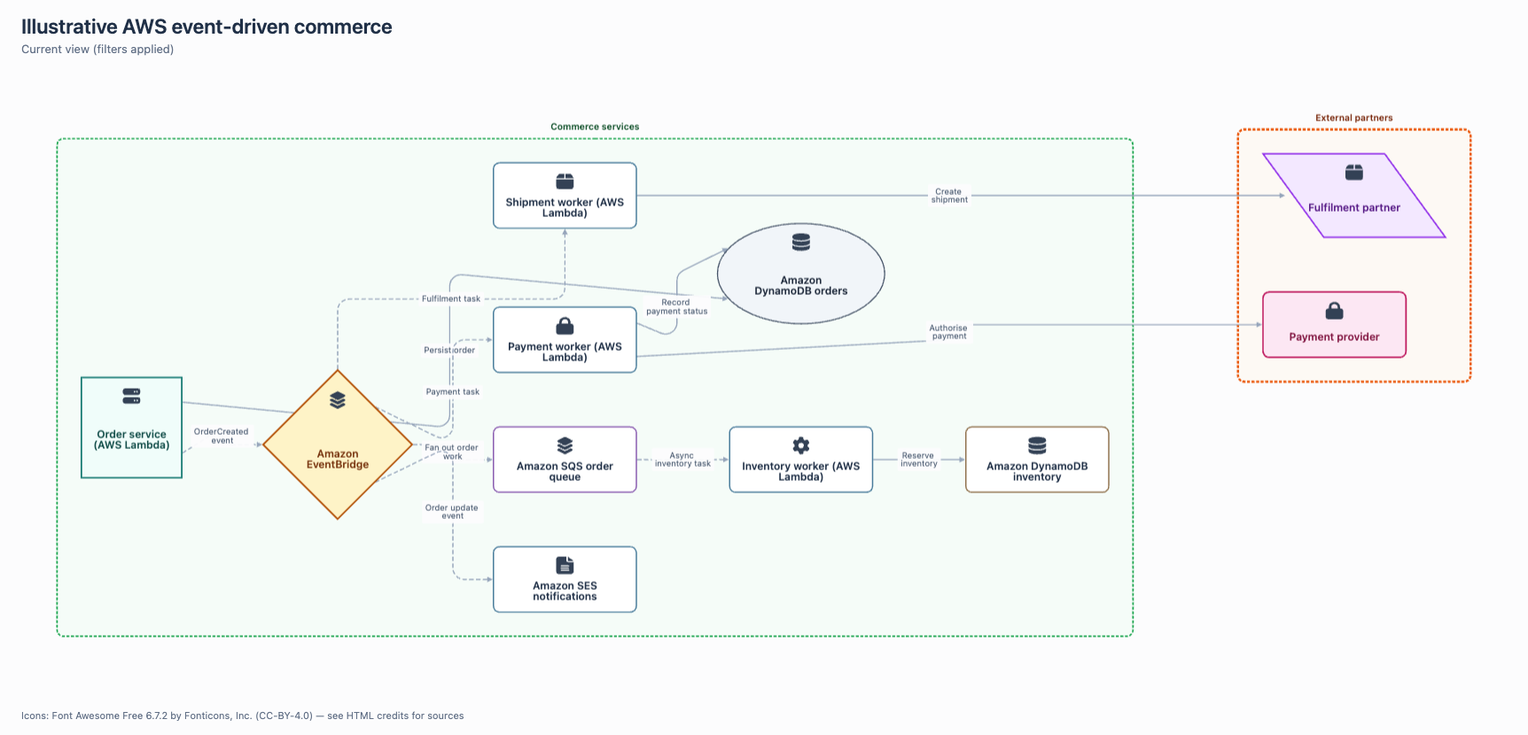
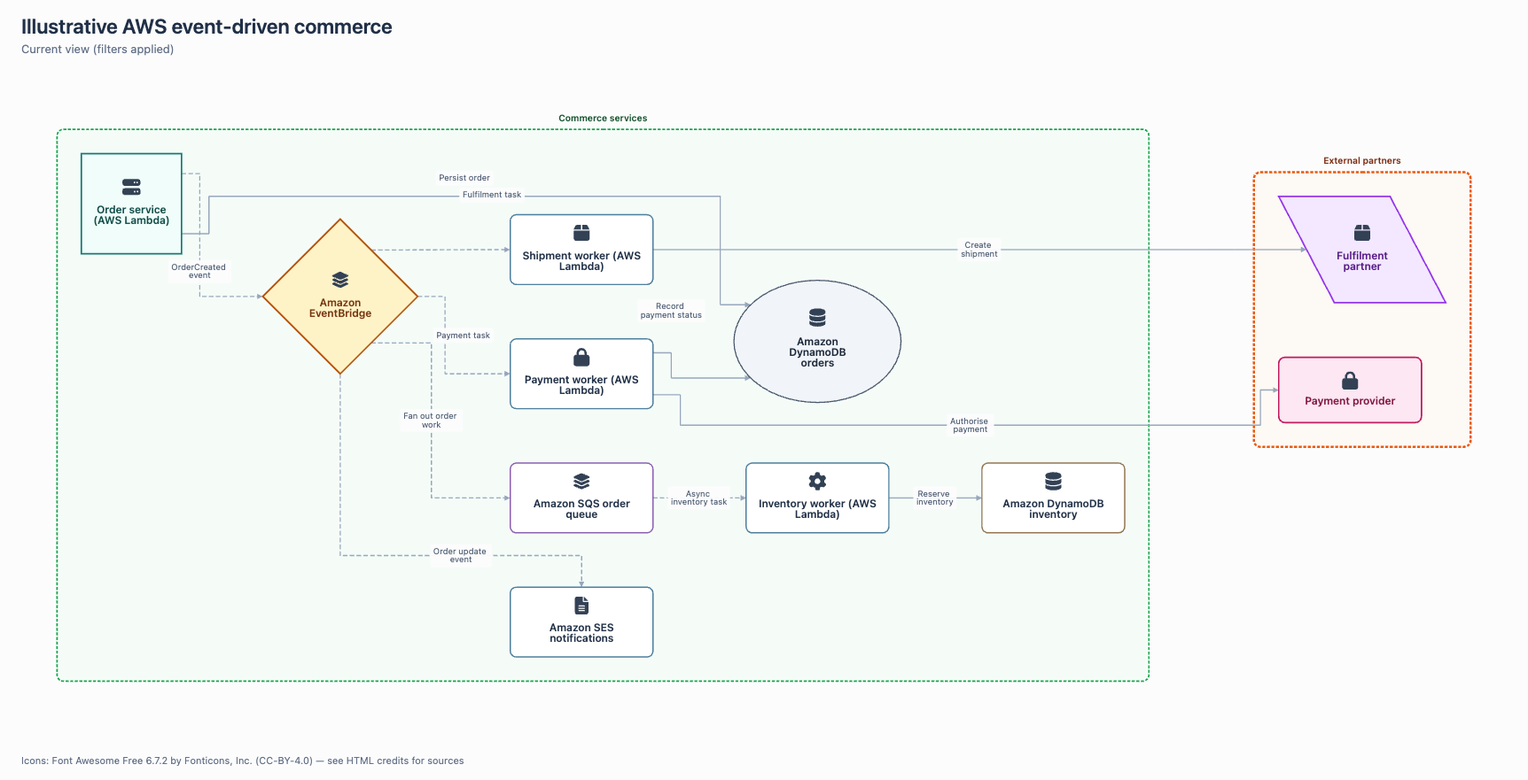
Finish collision-free diagram composition

diff --git a/assets/viewer.js b/assets/viewer.js
@@ -58,29 +58,28 @@ function lines(text,width){
 }
 const nodes=model.nodes.map(n=>{
   const group=n.kind==='group',appearance=n.appearance||{},shape={'oval':'ellipse','parallelogram':'rhomboid'}[appearance.shape]||appearance.shape||'round-rectangle';
-  const labelWidth=appearance.shape==='diamond'?88:['oval','parallelogram'].includes(appearance.shape)?132:appearance.shape==='square'?112:160,displayLabel=lines(n.label,labelWidth).join('\n');
-  const contentHeight=displayLabel.split('\n').length*19+(n.icon?46:26);
+  const labelWidth=appearance.shape==='diamond'?88:appearance.shape==='parallelogram'?104:appearance.shape==='oval'?120:appearance.shape==='square'?112:160,displayLabel=lines(n.label,labelWidth).join('\n');
+  const labelHeight=displayLabel.split('\n').length*19,contentHeight=labelHeight+(n.icon?30:0)+24;
   let width=group?180:188,height=Math.max(86,contentHeight);
   if(appearance.shape==='square')width=height=Math.max(132,height);
   if(appearance.shape==='diamond')width=height=Math.max(176,Math.ceil(labelWidth+contentHeight+24));
   if(appearance.shape==='oval'){width=Math.max(220,width);height=Math.max(132,Math.ceil(contentHeight*1.45));}
-  if(appearance.shape==='parallelogram'){width=Math.max(240,width);height=Math.max(110,Math.ceil(contentHeight*1.25));}
-  const groupLabelWidth=Math.min(300,measure.measureText(n.label).width);
-  return {data:{id:n.id,label:n.label,displayLabel,kind:n.kind||'element',...(n.parent?{parent:n.parent}:{}),width,height,labelWidth,shape,icon:icons[n.icon]||null,fill:appearance.fill||'#ffffff',stroke:appearance.stroke||colors.get(n.kind||'element')||'#7c8899',strokeWidth:appearance.strokeWidth||1.7,textColor:appearance.textColor||'#203047',groupLabel:appearance.groupLabel||'top',groupPadding:appearance.groupLabel==='inside'?46:30,groupTextX:appearance.groupLabel==='inside'?(n.icon?42:14)+groupLabelWidth:0}};
+  if(appearance.shape==='parallelogram'){width=Math.max(220,width);height=Math.max(140,Math.ceil(contentHeight*1.4));}
+  const groupLabelWidth=Math.min(300,measure.measureText(n.label).width),iconTop=n.icon?Math.max(10,(height-labelHeight-30)/2):0;
+  return {data:{id:n.id,label:n.label,displayLabel,kind:n.kind||'element',...(n.parent?{parent:n.parent}:{}),width,height,labelWidth,labelHeight,shape,icon:icons[n.icon]||null,iconTop,fill:appearance.fill||'#ffffff',stroke:appearance.stroke||colors.get(n.kind||'element')||'#7c8899',strokeWidth:appearance.strokeWidth||1.7,textColor:appearance.textColor||'#203047',groupLabel:appearance.groupLabel||'top',groupPadding:appearance.groupLabel==='inside'?46:30,groupTextX:appearance.groupLabel==='inside'?(n.icon?42:14)+groupLabelWidth:0}};
 });
-const edges=model.edges.map(e=>({data:{id:e.id,source:e.source,target:e.target,label:e.label||'',kind:e.kind||'flow',directed:e.directed!==false,routeTurn:'50%',routeLabelX:0,routeLabelY:0,sourceEndpoint:'outside-to-node',targetEndpoint:'outside-to-node'}}));
+const edges=model.edges.map(e=>({data:{id:e.id,source:e.source,target:e.target,label:e.label||'',kind:e.kind||'flow',directed:e.directed!==false,curveStyle:'straight',segmentWeights:'0.5',segmentDistances:'0',routeLabelX:0,routeLabelY:0,sourceEndpoint:'outside-to-node',targetEndpoint:'outside-to-node'}}));
 const cy=api.cy=cytoscape({
   container:$('cy'),elements:{nodes,edges},layout:{name:'preset'},
   minZoom:0.03,maxZoom:3.5,pixelRatio:Math.min(window.devicePixelRatio||1,2),
   autoungrabify:true,boxSelectionEnabled:false,
   style:[
     {selector:'node',style:{'shape':'data(shape)','width':'data(width)','height':'data(height)','background-color':'data(fill)','border-width':'data(strokeWidth)','border-color':'data(stroke)','label':'data(displayLabel)','font-family':'system-ui','font-size':14,'font-weight':600,'color':'data(textColor)','text-valign':'center','text-halign':'center','text-wrap':'wrap','text-max-width':'data(labelWidth)','text-justification':'center','text-margin-y':0,'padding':0,'overlay-opacity':0}},
-    {selector:'node[icon]',style:{'background-image':n=>n.data('icon')||'none','background-fit':'none','background-width':23,'background-height':23,'background-position-x':'50%','background-position-y':'13px','text-margin-y':16}},
-    {selector:'node[shape="diamond"][icon]',style:{'background-position-y':'28px','text-margin-y':20}},
+    {selector:'node[icon]',style:{'background-image':n=>n.data('icon')||'none','background-fit':'none','background-width':24,'background-height':24,'background-position-x':'50%','background-position-y':'data(iconTop)','text-margin-y':15}},
     {selector:'node:parent',style:{'shape':'round-rectangle','background-color':'data(fill)','background-opacity':0.22,'border-color':'data(stroke)','border-width':'data(strokeWidth)','border-style':'dashed','padding':'data(groupPadding)','label':'data(label)','font-size':12,'font-weight':600,'color':'data(textColor)','text-valign':'top','text-halign':'center','text-margin-x':0,'text-margin-y':-9,'compound-sizing-wrt-labels':'include','background-image':'none','text-wrap':'wrap','text-max-width':300}},
     {selector:'node:parent[groupLabel="inside"]',style:{'text-halign':'left','text-valign':'top','text-margin-x':'data(groupTextX)','text-margin-y':15}},
     {selector:'node:parent[groupLabel="inside"][icon]',style:{'background-image':n=>n.data('icon')||'none','background-fit':'none','background-width':20,'background-height':20,'background-position-x':'16px','background-position-y':'14px'}},
-    {selector:'edge',style:{'curve-style':'round-taxi','taxi-direction':'auto','taxi-turn':'data(routeTurn)','taxi-turn-min-distance':32,'source-endpoint':'data(sourceEndpoint)','target-endpoint':'data(targetEndpoint)','line-color':'#96a5bb','target-arrow-color':'#96a5bb','target-arrow-shape':e=>e.data('directed')?'triangle':'none','width':1.6,'arrow-scale':0.85,'label':'data(label)','font-family':'system-ui','font-size':11,'color':'#526277','text-background-color':'#fcfcfd','text-background-opacity':0.95,'text-background-padding':4,'text-background-shape':'roundrectangle','text-wrap':'wrap','text-max-width':Math.max(44,Math.min(120,(model.layout?.layerSpacing||120)-20)),'text-rotation':'none','text-margin-x':'data(routeLabelX)','text-margin-y':'data(routeLabelY)','loop-direction':'-45deg','loop-sweep':'55deg','overlay-opacity':0}},
+    {selector:'edge',style:{'curve-style':'data(curveStyle)','edge-distances':'node-position','segment-weights':'data(segmentWeights)','segment-distances':'data(segmentDistances)','source-endpoint':'data(sourceEndpoint)','target-endpoint':'data(targetEndpoint)','line-color':'#96a5bb','target-arrow-color':'#96a5bb','target-arrow-shape':e=>e.data('directed')?'triangle':'none','width':1.6,'arrow-scale':0.85,'label':'data(label)','font-family':'system-ui','font-size':11,'color':'#526277','text-background-color':'#fcfcfd','text-background-opacity':0.95,'text-background-padding':4,'text-background-shape':'roundrectangle','text-wrap':'wrap','text-max-width':Math.max(44,Math.min(120,(model.layout?.layerSpacing||120)-20)),'text-rotation':'none','text-margin-x':'data(routeLabelX)','text-margin-y':'data(routeLabelY)','overlay-opacity':0}},
     {selector:'edge:loop',style:{'curve-style':'bezier','control-point-step-size':150,'loop-direction':'0deg','loop-sweep':'65deg'}},
     {selector:'edge[kind="event"], edge[kind="async"]',style:{'line-style':'dashed'}},
     {selector:'.dim',style:{'opacity':0.17}},
@@ -149,54 +148,58 @@ function inspect(id,mode){
   }
 }
 function fit(){if(cy.nodes(':visible').length)cy.fit(cy.elements(':visible'),48);}
-async function route(elements){
-  const visible=elements.edges(':visible'),ports=new Map(),records=[];
-  const side=(a,b)=>{const dx=b.x-a.x,dy=b.y-a.y;if(Math.abs(dx)>=Math.abs(dy))return dx>=0?'right':'left';return dy>=0?'bottom':'top';};
-  const endpoint=(node,s,p)=>{
-    const offset=p-50,shape=node.data('shape');let x=0,y=0;
-    if(['left','right'].includes(s)){
-      y=offset;if(shape==='rhomboid')x=(s==='right'?37.5:-37.5)+y/4;else{const edge=shape==='ellipse'?50*Math.sqrt(1-(y/50)**2):shape==='diamond'?50-Math.abs(y):50;x=s==='right'?edge:-edge;}
-    }else{
-      x=offset;const edge=shape==='ellipse'?50*Math.sqrt(1-(x/50)**2):shape==='diamond'?50-Math.abs(x):50;y=s==='bottom'?edge:-edge;
-    }
-    return `${x}% ${y}%`;
-  };
-  visible.forEach(edge=>{
-    if(edge.source().id()===edge.target().id()){edge.data({sourceEndpoint:'outside-to-node',targetEndpoint:'outside-to-node',routeTurn:'50%',routeLabelX:0,routeLabelY:-28});return;}
-    const source=edge.source().position(),target=edge.target().position(),sourceSide=side(source,target),targetSide=side(target,source),record={edge,source,target,sourceSide,targetSide};records.push(record);
-    for(const [node,which,s,peer] of [[edge.source(),'source',sourceSide,target],[edge.target(),'target',targetSide,source]]){const key=`${node.id()}:${s}`;if(!ports.has(key))ports.set(key,[]);ports.get(key).push({record,which,peer});}
-  });
-  for(const entries of ports.values()){
-    const vertical=['left','right'].includes(entries[0].record[entries[0].which+'Side']);entries.sort((a,b)=>(vertical?a.peer.y-b.peer.y:a.peer.x-b.peer.x)||a.record.edge.id().localeCompare(b.record.edge.id()));
-    entries.forEach((entry,i)=>{entry.record[entry.which+'Port']=entries.length===1?50:25+50*i/(entries.length-1);});
-  }
-  const pairs=new Map();for(const record of records){const key=[record.edge.source().id(),record.edge.target().id()].sort().join('\u0000');if(!pairs.has(key))pairs.set(key,[]);pairs.get(key).push(record);}
-  for(const group of pairs.values())group.sort((a,b)=>a.edge.id().localeCompare(b.edge.id())).forEach((record,i)=>{record.lane=i-(group.length-1)/2;});
-  cy.batch(()=>records.forEach(r=>{const horizontal=Math.abs(r.target.x-r.source.x)>=Math.abs(r.target.y-r.source.y);r.baseLabelX=horizontal?0:r.lane*84;r.baseLabelY=horizontal?r.lane*56:0;r.edge.data({sourceEndpoint:endpoint(r.edge.source(),r.sourceSide,r.sourcePort),targetEndpoint:endpoint(r.edge.target(),r.targetSide,r.targetPort),routeTurn:'50%',routeLabelX:r.baseLabelX,routeLabelY:r.baseLabelY});}));
-  cy.style().update();
-  await new Promise(resolve=>requestAnimationFrame(resolve));
-  const occupied=cy.nodes(':visible').filter(n=>!n.isParent()).map(n=>n.boundingBox({includeLabels:true,includeOverlays:false}));
-  for(const group of cy.nodes(':visible').filter(n=>n.isParent())){group.boundingBox({includeLabels:true,includeOverlays:false});occupied.push(group._private.labelBounds.main);}
-  const placed=[],choices=[];
-  const overlap=(a,b)=>Math.max(0,Math.min(a.x2,b.x2)-Math.max(a.x1,b.x1))*Math.max(0,Math.min(a.y2,b.y2)-Math.max(a.y1,b.y1));
-  for(const r of records.sort((a,b)=>a.edge.id().localeCompare(b.edge.id()))){
-    if(!r.edge.data('label'))continue;const horizontal=Math.abs(r.target.x-r.source.x)>=Math.abs(r.target.y-r.source.y);
-    const candidates=[],primary=[0,-18,18,-36,36,-54,54,-72,72,-90,90,-108,108],secondary=[0,-24,24,-48,48,-72,72];for(const p of primary)for(const s of secondary)candidates.push(horizontal?[s,p]:[p,s]);
-    const s=r.edge._private.rscratch,z=r.edge._private.rstyle;let best=null;for(const [x,y] of candidates){const box={x1:s.labelX+r.baseLabelX+x-z.labelWidth/2,y1:s.labelY+r.baseLabelY+y-z.labelHeight/2,x2:s.labelX+r.baseLabelX+x+z.labelWidth/2,y2:s.labelY+r.baseLabelY+y+z.labelHeight/2},collisions=[...occupied,...placed].reduce((sum,b)=>sum+overlap(box,b),0),score=collisions*1000+Math.abs(x)+Math.abs(y);if(!best||score<best.score)best={x:r.baseLabelX+x,y:r.baseLabelY+y,box,score};if(!collisions)break;}
-    choices.push([r.edge,best]);placed.push(best.box);
-  }
-  cy.batch(()=>choices.forEach(([edge,best])=>edge.data({routeLabelX:best.x,routeLabelY:best.y})));
-  cy.style().update();
+function portPoint(node,side,t){
+  const w=node.data('width'),h=node.data('height'),shape=node.data('shape'),horizontal=side==='NORTH'||side==='SOUTH';let x=horizontal?t:0,y=horizontal?0:t;
+  if(shape==='ellipse'){if(horizontal)y=(side==='SOUTH'?1:-1)*Math.sqrt(1-x*x);else x=(side==='EAST'?1:-1)*Math.sqrt(1-y*y);}
+  else if(shape==='diamond'){if(horizontal)y=(side==='SOUTH'?1:-1)*(1-Math.abs(x));else x=(side==='EAST'?1:-1)*(1-Math.abs(y));}
+  else if(shape==='rhomboid'){if(horizontal){x=(side==='SOUTH'?1/3:-1/3)+2*t/3;y=side==='SOUTH'?1:-1;}else x=(side==='EAST'?2/3:-2/3)+y/3;}
+  else if(horizontal)y=side==='SOUTH'?1:-1;else x=side==='EAST'?1:-1;
+  return {x:w*(x+1)/2,y:h*(y+1)/2};
+}
+function segmentValues(points,source,target){
+  const dx=target.x-source.x,dy=target.y-source.y,length=Math.hypot(dx,dy),square=length*length;
+  if(!length||!points.length)return {weights:'0.5',distances:'0'};
+  const weights=[],distances=[];
+  for(const p of points){weights.push(((p.x-source.x)*dx+(p.y-source.y)*dy)/square);distances.push(((p.x-source.x)*-dy+(p.y-source.y)*dx)/length);}
+  return {weights:weights.join(' '),distances:distances.join(' ')};
+}
+function stubLength(node,side,point,assigned){
+  const clearance={EAST:node.data('width')-point.x,WEST:point.x,SOUTH:node.data('height')-point.y,NORTH:point.y}[side]+18;
+  return Math.max(assigned,clearance);
+}
+function crossesNode(a,b,node){
+  const c=node.position(),w=node.data('width')/2,h=node.data('height')/2,ax=(a.x-c.x)/w,ay=(a.y-c.y)/h,bx=(b.x-c.x)/w,by=(b.y-c.y)/h,dx=bx-ax,dy=by-ay,t=Math.max(0,Math.min(1,-(ax*dx+ay*dy)/(dx*dx+dy*dy||1))),x=ax+t*dx,y=ay+t*dy,shape=node.data('shape'),m=.98;
+  if(shape==='ellipse')return x*x+y*y<m*m;
+  if(shape==='diamond')return Math.abs(x)+Math.abs(y)<m;
+  if(shape==='rhomboid'){if(Math.abs(ay-by)<.001){if(Math.abs(ay)>=m)return false;return Math.max(Math.min(ax,bx),(-2*m+ay)/3)<Math.min(Math.max(ax,bx),(2*m+ay)/3);}const low=Math.max(-m,3*ax-2*m),high=Math.min(m,3*ax+2*m);return Math.max(Math.min(ay,by),low)<Math.min(Math.max(ay,by),high);}
+  return Math.abs(x)<m&&Math.abs(y)<m;
 }
 async function arrange(elements){
   const spacing=model.layout?.spacing||65,layerSpacing=model.layout?.layerSpacing||120;
   const elk={'elk.algorithm':'layered','elk.direction':$('direction').value,'elk.hierarchyHandling':'INCLUDE_CHILDREN','elk.edgeRouting':'ORTHOGONAL','elk.spacing.nodeNode':spacing,'elk.spacing.edgeNode':Math.max(32,spacing/2),'elk.spacing.edgeEdge':24,'elk.layered.spacing.nodeNodeBetweenLayers':layerSpacing,'elk.layered.spacing.edgeNodeBetweenLayers':Math.max(36,layerSpacing/3),'elk.layered.spacing.edgeEdgeBetweenLayers':24,'elk.padding':'[top=40,left=40,bottom=40,right=40]','elk.randomSeed':17};
-  await new Promise((resolve,reject)=>{
-    const timer=setTimeout(()=>reject(new Error('Layout exceeded 15 seconds. Split the diagram or use an explicitly configured worker integration.')),15000);
-    const success=()=>{clearTimeout(timer);pendingFailure=null;resolve();};
-    pendingFailure=e=>{clearTimeout(timer);reject(e);};
-    elements.layout({name:'elk',fit:false,animate:false,nodeDimensionsIncludeLabels:false,nodeLayoutOptions:node=>node.isParent()?{...elk,'elk.padding':node.data('groupLabel')==='inside'?'[top=76,left=42,bottom=42,right=42]':'[top=50,left=36,bottom=36,right=36]'}:{},elk,stop:success}).run();
-  });
+  await new Promise((resolve,reject)=>{const timer=setTimeout(()=>reject(new Error('Layout exceeded 15 seconds. Split the diagram or use a worker-based integration.')),15000),success=()=>{clearTimeout(timer);pendingFailure=null;resolve();};pendingFailure=e=>{clearTimeout(timer);reject(e);};elements.layout({name:'elk',fit:false,animate:false,nodeDimensionsIncludeLabels:false,nodeLayoutOptions:node=>node.isParent()?{...elk,'elk.padding':node.data('groupLabel')==='inside'?'[top=76,left=42,bottom=42,right=42]':'[top=50,left=36,bottom=36,right=36]'}:{},elk,stop:success}).run();});
+}
+async function route(elements){
+  const visible=elements.edges(':visible'),records=[],ports=new Map(),occupied=[];
+  const side=(a,b)=>{const dx=b.x-a.x,dy=b.y-a.y;if(Math.abs(dx)>=Math.abs(dy))return dx>=0?'EAST':'WEST';return dy>=0?'SOUTH':'NORTH';},opposite={EAST:'WEST',WEST:'EAST',NORTH:'SOUTH',SOUTH:'NORTH'},vector={EAST:[1,0],WEST:[-1,0],NORTH:[0,-1],SOUTH:[0,1]};
+  visible.forEach(edge=>{if(edge.isLoop()){edge.data({curveStyle:'bezier',routeLabelX:0,routeLabelY:-28});return;}const source=edge.source().position(),target=edge.target().position(),sourceSide=side(source,target),targetSide=opposite[sourceSide],record={edge,source,target,sourceSide,targetSide};records.push(record);for(const [node,which,s,peer] of [[edge.source(),'source',sourceSide,target],[edge.target(),'target',targetSide,source]]){const key=`${node.id()}:${s}`;if(!ports.has(key))ports.set(key,[]);ports.get(key).push({record,which,peer});}});
+  for(const entries of ports.values()){const vertical=['EAST','WEST'].includes(entries[0].record[`${entries[0].which}Side`]);entries.sort((a,b)=>(vertical?a.peer.y-b.peer.y:a.peer.x-b.peer.x)||a.record.edge.id().localeCompare(b.record.edge.id()));entries.forEach((entry,i)=>{entry.record[`${entry.which}Port`]=entries.length===1?0:-.6+1.2*i/(entries.length-1);entry.record[`${entry.which}Stub`]=24+i*12;});}
+  const obstacles=elements.nodes(':visible').filter(n=>!n.isParent()).map(n=>{const p=n.position(),pad=12;return{id:n.id(),x1:p.x-n.data('width')/2-pad,y1:p.y-n.data('height')/2-pad,x2:p.x+n.data('width')/2+pad,y2:p.y+n.data('height')/2+pad};}),xs=obstacles.flatMap(o=>[o.x1-18,o.x2+18]),ys=obstacles.flatMap(o=>[o.y1-18,o.y2+18]);
+  const segments=path=>path.slice(1).map((p,i)=>[path[i],p]),intersects=(a,b,o)=>Math.abs(a.y-b.y)<.5?a.y>o.y1&&a.y<o.y2&&Math.max(a.x,b.x)>o.x1&&Math.min(a.x,b.x)<o.x2:a.x>o.x1&&a.x<o.x2&&Math.max(a.y,b.y)>o.y1&&Math.min(a.y,b.y)<o.y2;
+  const overlap=(a,b,c,d)=>{const ah=Math.abs(a.y-b.y)<.5,ch=Math.abs(c.y-d.y)<.5;if(ah!==ch)return 0;if(ah&&Math.abs(a.y-c.y)<1)return Math.max(0,Math.min(Math.max(a.x,b.x),Math.max(c.x,d.x))-Math.max(Math.min(a.x,b.x),Math.min(c.x,d.x)));if(!ah&&Math.abs(a.x-c.x)<1)return Math.max(0,Math.min(Math.max(a.y,b.y),Math.max(c.y,d.y))-Math.max(Math.min(a.y,b.y),Math.min(c.y,d.y)));return 0;};
+  const crossing=(a,b,c,d)=>{const ah=Math.abs(a.y-b.y)<.5,ch=Math.abs(c.y-d.y)<.5;if(ah===ch)return false;const h=ah?[a,b]:[c,d],v=ah?[c,d]:[a,b];return v[0].x>Math.min(h[0].x,h[1].x)&&v[0].x<Math.max(h[0].x,h[1].x)&&h[0].y>Math.min(v[0].y,v[1].y)&&h[0].y<Math.max(v[0].y,v[1].y);};
+  const compact=path=>{const out=[];for(const p of path){const n=out.length,vertical=n>1&&Math.abs(out[n-2].x-out[n-1].x)<.5&&Math.abs(out[n-1].x-p.x)<.5&&(out[n-1].y-out[n-2].y)*(p.y-out[n-1].y)>=0,horizontal=n>1&&Math.abs(out[n-2].y-out[n-1].y)<.5&&Math.abs(out[n-1].y-p.y)<.5&&(out[n-1].x-out[n-2].x)*(p.x-out[n-1].x)>=0;if(vertical||horizontal)out[n-1]=p;else if(!n||Math.abs(p.x-out[n-1].x)>.5||Math.abs(p.y-out[n-1].y)>.5)out.push(p);}return out;};
+  for(const [lane,r] of records.sort((a,b)=>(Math.abs(a.target.x-a.source.x)+Math.abs(a.target.y-a.source.y))-(Math.abs(b.target.x-b.source.x)+Math.abs(b.target.y-b.source.y))||a.edge.id().localeCompare(b.edge.id())).entries()){
+    const sourcePoint=portPoint(r.edge.source(),r.sourceSide,r.sourcePort),targetPoint=portPoint(r.edge.target(),r.targetSide,r.targetPort),start={x:r.source.x+sourcePoint.x-r.edge.source().data('width')/2,y:r.source.y+sourcePoint.y-r.edge.source().data('height')/2},end={x:r.target.x+targetPoint.x-r.edge.target().data('width')/2,y:r.target.y+targetPoint.y-r.edge.target().data('height')/2},sv=vector[r.sourceSide],tv=vector[r.targetSide],sourceStub=stubLength(r.edge.source(),r.sourceSide,sourcePoint,r.sourceStub),targetStub=stubLength(r.edge.target(),r.targetSide,targetPoint,r.targetStub),stub={x:start.x+sv[0]*sourceStub,y:start.y+sv[1]*sourceStub},finish={x:end.x+tv[0]*targetStub,y:end.y+tv[1]*targetStub},usedX=occupied.filter(([a,b])=>Math.abs(a.x-b.x)<.5).flatMap(([a])=>[a.x-12,a.x+12]),usedY=occupied.filter(([a,b])=>Math.abs(a.y-b.y)<.5).flatMap(([a])=>[a.y-12,a.y+12]),channelsX=[(stub.x+finish.x)/2,...xs,...usedX,Math.min(...xs)-24-lane*8,Math.max(...xs)+24+lane*8],channelsY=[(stub.y+finish.y)/2,...ys,...usedY,Math.min(...ys)-24-lane*8,Math.max(...ys)+24+lane*8],candidates=[[start,stub,{x:finish.x,y:stub.y},finish,end],[start,stub,{x:stub.x,y:finish.y},finish,end],...channelsX.map(x=>[start,stub,{x,y:stub.y},{x,y:finish.y},finish,end]),...channelsY.map(y=>[start,stub,{x:stub.x,y},{x:finish.x,y},finish,end])].map(compact),skip=new Set([r.edge.source().id(),r.edge.target().id()]);
+    const select=paths=>paths.map(path=>{const parts=segments(path);let score=parts.reduce((sum,[a,b])=>sum+Math.abs(a.x-b.x)+Math.abs(a.y-b.y),0)+(path.length-2)*28,blocked=false;for(const [a,b] of parts){blocked ||= obstacles.some(o=>skip.has(o.id)?crossesNode(a,b,cy.getElementById(o.id)):intersects(a,b,o));for(const [c,d] of occupied){blocked ||= overlap(a,b,c,d)>3;score+=crossing(a,b,c,d)?180:0;}}return{path,score,blocked};}).filter(choice=>!choice.blocked).sort((a,b)=>a.score-b.score||JSON.stringify(a.path).localeCompare(JSON.stringify(b.path)))[0];
+    let scored=select(candidates);
+    if(!scored){const detours=[];for(const x of [...new Set(channelsX)])for(const y of [...new Set(channelsY)])detours.push(compact([start,stub,{x,y:stub.y},{x,y},{x:finish.x,y},finish,end]),compact([start,stub,{x:stub.x,y},{x,y},{x,y:finish.y},finish,end]));scored=select(detours);}
+    if(!scored)throw new Error(`No collision-free orthogonal route for ${r.edge.id()}.`);const path=scored.path,bends=path.slice(1,-1),values=segmentValues(bends,r.source,r.target);occupied.push(...segments(path));r.edge.data({curveStyle:bends.length?'segments':'straight',segmentWeights:values.weights,segmentDistances:values.distances,sourceEndpoint:`${start.x-r.source.x}px ${start.y-r.source.y}px`,targetEndpoint:`${end.x-r.target.x}px ${end.y-r.target.y}px`,routeLabelX:0,routeLabelY:0});
+  }
+  cy.style().update();await new Promise(resolve=>requestAnimationFrame(resolve));
+  const placed=[],groupBoxes=elements.nodes(':visible').filter(n=>n.isParent()).map(n=>{n.boundingBox({includeLabels:true,includeOverlays:false});return n._private.labelBounds.main;}),nodeBoxes=[...obstacles.map(o=>({x1:o.x1,y1:o.y1,x2:o.x2,y2:o.y2})),...groupBoxes],area=(a,b)=>Math.max(0,Math.min(a.x2,b.x2)-Math.max(a.x1,b.x1))*Math.max(0,Math.min(a.y2,b.y2)-Math.max(a.y1,b.y1));
+  for(const r of records){if(!r.edge.data('label'))continue;const s=r.edge._private.rscratch,z=r.edge._private.rstyle;if(!Number.isFinite(s.labelX))continue;let best;const offsets=[0,-24,24,-48,48,-72,72,-96,96,-120,120];for(const x of offsets)for(const y of offsets){const box={x1:s.labelX+x-z.labelWidth/2,y1:s.labelY+y-z.labelHeight/2,x2:s.labelX+x+z.labelWidth/2,y2:s.labelY+y+z.labelHeight/2},collision=[...nodeBoxes,...placed].reduce((n,b)=>n+area(box,b),0),score=collision*1000+Math.abs(x)+Math.abs(y);if(!best||score<best.score)best={x,y,box,score};}r.edge.data({routeLabelX:best.x,routeLabelY:best.y});placed.push(best.box);}
+  cy.style().update();
 }
 async function layout(){
   if(busy||failed)return false;
@@ -220,10 +223,10 @@ async function exportPNG(all=false){
   if(busy||failed)throw new Error('The diagram must be ready before export.');
   const states=cy.elements().map(e=>({id:e.id(),classes:e.classes()}));
   const positions=new Map(cy.nodes().filter(n=>!n.isParent()).map(n=>[n.id(),{x:n.position('x'),y:n.position('y')}]));
-  const routes=new Map(cy.edges().map(e=>[e.id(),Object.fromEntries(['sourceEndpoint','targetEndpoint','routeTurn','routeLabelX','routeLabelY'].map(k=>[k,e.data(k)]))]));
+  const routes=new Map(cy.edges().map(e=>[e.id(),Object.fromEntries(['sourceEndpoint','targetEndpoint','curveStyle','segmentWeights','segmentDistances','routeLabelX','routeLabelY'].map(k=>[k,e.data(k)]))]));
   const viewport={zoom:cy.zoom(),pan:cy.pan()};
   busy=true;api.state='export';document.querySelectorAll('.toolbar button,.toolbar select,#png-view,#png-all').forEach(b=>b.disabled=true);
-  cy.elements().removeClass('dim highlight');if(all)cy.elements().removeClass('hidden');
+  cy.elements().removeClass('dim highlight');if(all){cy.elements().removeClass('hidden');cy.elements().forEach(e=>e.style('display'));}
   try{
     if(!cy.nodes(':visible').length)throw new Error('This view has no elements to export.');
     if(all){await arrange(cy.elements());await route(cy.elements());}

diff --git a/scripts/browser_check.py b/scripts/browser_check.py
@@ -55,17 +55,24 @@ AUDIT = r'''() => {
  if(leaves.length&&(graph.x1<-1||graph.y1<-1||graph.x2>cy.width()+1||graph.y2>cy.height()+1))errors.push('Visible graph is clipped by the canvas bounds.');
  const nodeLabels=cy.nodes(':visible').filter(n=>!n.isParent()||n.data('groupLabel')==='inside').map(n=>({id:n.id(),body:n.boundingBox({includeLabels:false,includeOverlays:false}),withLabel:n.boundingBox({includeLabels:true,includeOverlays:false}),marginX:n.pstyle('text-margin-x').pfValue,labelBounds:n._private.labelBounds.main}));
  for(const n of nodeLabels)if(n.withLabel.x1<n.body.x1-2||n.withLabel.y1<n.body.y1-2||n.withLabel.x2>n.body.x2+2||n.withLabel.y2>n.body.y2+2)errors.push('Node label crosses its shape boundary: '+n.id);
- const insideShape=(n,p)=>{const c=n.position(),x=(p.x-c.x)/(n.width()/2),y=(p.y-c.y)/(n.height()/2),shape=n.data('shape');if(shape==='ellipse')return x*x+y*y<=1.04;if(shape==='diamond')return Math.abs(x)+Math.abs(y)<=1.04;if(shape==='rhomboid'){const q=[[-1,-1],[.5,-1],[1,1],[-.5,1]];let sign=0;for(let i=0;i<q.length;i++){const a=q[i],b=q[(i+1)%q.length],cross=(b[0]-a[0])*(y-a[1])-(b[1]-a[1])*(x-a[0]);if(Math.abs(cross)<.04)continue;const next=Math.sign(cross);if(sign&&next!==sign)return false;sign=next;}return true;}return true;};
+ const insideShape=(n,p)=>{const c=n.position(),x=(p.x-c.x)/(n.width()/2),y=(p.y-c.y)/(n.height()/2),shape=n.data('shape');if(shape==='ellipse')return x*x+y*y<=1.04;if(shape==='diamond')return Math.abs(x)+Math.abs(y)<=1.04;if(shape==='rhomboid'){const q=[[-1,-1],[1/3,-1],[1,1],[-1/3,1]];let sign=0;for(let i=0;i<q.length;i++){const a=q[i],b=q[(i+1)%q.length],cross=(b[0]-a[0])*(y-a[1])-(b[1]-a[1])*(x-a[0]);if(Math.abs(cross)<.04)continue;const next=Math.sign(cross);if(sign&&next!==sign)return false;sign=next;}return true;}return true;};
  for(const n of cy.nodes(':visible').filter(n=>!n.isParent()&&['ellipse','diamond','rhomboid'].includes(n.data('shape')))){n.boundingBox({includeLabels:true,includeOverlays:false});const b=n._private.labelBounds.main,corners=[{x:b.x1,y:b.y1},{x:b.x2,y:b.y1},{x:b.x2,y:b.y2},{x:b.x1,y:b.y2}];if(corners.some(p=>!insideShape(n,p)))errors.push('Node label crosses its curved or sloped boundary: '+n.id());}
  const segmentDistance=(p,a,b)=>{const dx=b.x-a.x,dy=b.y-a.y,t=Math.max(0,Math.min(1,((p.x-a.x)*dx+(p.y-a.y)*dy)/(dx*dx+dy*dy)));return Math.hypot(p.x-a.x-t*dx,p.y-a.y-t*dy);};
- const surfaceError=(node,point)=>{const pos=node.position(),p={x:(point.x-pos.x)/(node.width()/2),y:(point.y-pos.y)/(node.height()/2)},shape=node.data('shape');if(shape==='ellipse')return Math.abs(p.x*p.x+p.y*p.y-1);if(shape==='diamond')return Math.abs(Math.abs(p.x)+Math.abs(p.y)-1);if(shape==='rhomboid'){const q=[{x:-1,y:-1},{x:.5,y:-1},{x:1,y:1},{x:-.5,y:1}];return Math.min(...q.map((a,i)=>segmentDistance(p,a,q[(i+1)%q.length])));}return Math.min(Math.abs(Math.abs(p.x)-1),Math.abs(Math.abs(p.y)-1));};
- const routes=cy.edges(':visible').map(e=>({id:e.id(),source:e.source().id(),target:e.target().id(),style:e.pstyle('curve-style').value,labelX:e.data('routeLabelX'),labelY:e.data('routeLabelY'),sourcePoint:e.sourceEndpoint(),targetPoint:e.targetEndpoint(),points:[...(e._private.rscratch.allpts||[])]}));
+ const surfaceError=(node,point)=>{const pos=node.position(),p={x:(point.x-pos.x)/(node.width()/2),y:(point.y-pos.y)/(node.height()/2)},shape=node.data('shape');if(shape==='ellipse')return Math.abs(p.x*p.x+p.y*p.y-1);if(shape==='diamond')return Math.abs(Math.abs(p.x)+Math.abs(p.y)-1);if(shape==='rhomboid'){const q=[{x:-1,y:-1},{x:1/3,y:-1},{x:1,y:1},{x:-1/3,y:1}];return Math.min(...q.map((a,i)=>segmentDistance(p,a,q[(i+1)%q.length])));}return Math.min(Math.abs(Math.abs(p.x)-1),Math.abs(Math.abs(p.y)-1));};
+ const routes=cy.edges(':visible').map(e=>({id:e.id(),source:e.source().id(),target:e.target().id(),style:e.pstyle('curve-style').value,labelX:e.data('routeLabelX'),labelY:e.data('routeLabelY'),sourcePoint:e.sourceEndpoint(),targetPoint:e.targetEndpoint(),path:[e.sourceEndpoint(),...(e.segmentPoints()||[]),e.targetEndpoint()],points:[...(e._private.rscratch.allpts||[])]}));
  for(const route of routes){
-   if(route.source!==route.target&&route.style!=='round-taxi')errors.push('Non-loop edge is not round-taxi routed: '+route.id);
+   if(route.source!==route.target&&!['straight','segments'].includes(route.style))errors.push('Non-loop edge is not rectilinear: '+route.id);
    if(route.points.some(v=>!Number.isFinite(v)))errors.push('Non-finite routed edge geometry: '+route.id);
+   if(route.source!==route.target&&route.path.some((p,i)=>i&&Math.abs(p.x-route.path[i-1].x)>1&&Math.abs(p.y-route.path[i-1].y)>1))errors.push('Non-orthogonal routed segment: '+route.id);
    if(route.source!==route.target&&surfaceError(cy.getElementById(route.source),route.sourcePoint)>.12)errors.push('Source endpoint is detached from its node surface: '+route.id);
    if(route.source!==route.target&&surfaceError(cy.getElementById(route.target),route.targetPoint)>.12)errors.push('Target endpoint is detached from its node surface: '+route.id);
  }
+ const crossesNode=(a,b,n)=>{const c=n.position(),w=n.width()/2,h=n.height()/2,ax=(a.x-c.x)/w,ay=(a.y-c.y)/h,bx=(b.x-c.x)/w,by=(b.y-c.y)/h,dx=bx-ax,dy=by-ay,t=Math.max(0,Math.min(1,-(ax*dx+ay*dy)/(dx*dx+dy*dy||1))),x=ax+t*dx,y=ay+t*dy,shape=n.data('shape'),m=.94;if(shape==='ellipse')return x*x+y*y<m*m;if(shape==='diamond')return Math.abs(x)+Math.abs(y)<m;if(shape==='rhomboid'){if(Math.abs(ay-by)<.001){if(Math.abs(ay)>=m)return false;return Math.max(Math.min(ax,bx),(-2*m+ay)/3)<Math.min(Math.max(ax,bx),(2*m+ay)/3);}const low=Math.max(-m,3*ax-2*m),high=Math.min(m,3*ax+2*m);return Math.max(Math.min(ay,by),low)<Math.min(Math.max(ay,by),high);}return Math.abs(x)<m&&Math.abs(y)<m;};
+ const rhomboidProbe={position:()=>({x:0,y:0}),width:()=>220,height:()=>140,data:key=>key==='shape'?'rhomboid':undefined};
+ if(!crossesNode({x:88,y:0},{x:88,y:63},rhomboidProbe))errors.push('Rhomboid segment collision regression.');
+ for(const route of routes)if(route.source!==route.target)for(const [a,b] of route.path.slice(1).map((p,i)=>[route.path[i],p]))for(const n of cy.nodes(':visible').filter(n=>!n.isParent()))if(crossesNode(a,b,n))errors.push('Routed edge crosses node interior: '+route.id+' / '+n.id());
+ const routeSegments=r=>r.path.slice(1).map((p,i)=>[r.path[i],p]),collinearOverlap=(a,b,c,d)=>{const ah=Math.abs(a.y-b.y)<1,ch=Math.abs(c.y-d.y)<1;if(ah!==ch)return 0;if(ah&&Math.abs(a.y-c.y)<1)return Math.max(0,Math.min(Math.max(a.x,b.x),Math.max(c.x,d.x))-Math.max(Math.min(a.x,b.x),Math.min(c.x,d.x)));if(!ah&&Math.abs(a.x-c.x)<1)return Math.max(0,Math.min(Math.max(a.y,b.y),Math.max(c.y,d.y))-Math.max(Math.min(a.y,b.y),Math.min(c.y,d.y)));return 0;};
+ for(let i=0;i<routes.length;i++)for(let j=i+1;j<routes.length;j++)if(routes[i].source!==routes[i].target&&routes[j].source!==routes[j].target)for(const [a,b] of routeSegments(routes[i]))for(const [c,d] of routeSegments(routes[j]))if(collinearOverlap(a,b,c,d)>3)errors.push('Overlapping route channel: '+routes[i].id+' / '+routes[j].id);
  for(let i=0;i<routes.length;i++)for(let j=i+1;j<routes.length;j++){
    const a=routes[i],b=routes[j],same=a.source===b.source&&a.target===b.target,reverse=a.source===b.target&&a.target===b.source;
    if((same||reverse)&&a.points.length&&JSON.stringify(a.points)===JSON.stringify(reverse?[...b.points].reverse():b.points))errors.push('Coincident parallel route: '+a.id+' / '+b.id);
@@ -80,8 +87,10 @@ AUDIT = r'''() => {
  if(cy.edges(':visible').some(e=>e.data('label')&&e.pstyle('text-background-opacity').value<0.9))errors.push('Edge labels do not interrupt lines with an opaque background.');
  const labelPixels=cy.zoom()*14;
  if(leaves.length&&labelPixels<10)warnings.push('Overview text below 10 CSS px. Use a focused view or zoom; do not call this screenshot readable.');
- const iconStyles=cy.nodes().filter(n=>n.data('icon')).map(n=>({id:n.id(),fit:n.style('background-fit'),width:n.pstyle('background-width').pfValue[0],height:n.pstyle('background-height').pfValue[0]}));
- for(const n of iconStyles)if(n.fit!=='none'||n.width>32||n.height>32)errors.push('Icon scaling regression: '+n.id);
+ const iconStyles=cy.nodes().filter(n=>n.data('icon')&&(!n.isParent()||n.data('groupLabel')==='inside')).map(n=>({id:n.id(),parent:n.isParent(),fit:n.style('background-fit'),width:n.pstyle('background-width').pfValue[0],height:n.pstyle('background-height').pfValue[0]}));
+ for(const n of iconStyles){const expected=n.parent?20:24;if(n.fit!=='none'||Math.abs(n.width-expected)>0.1||Math.abs(n.height-expected)>0.1)errors.push('Icon scaling regression: '+n.id);}
+ for(const n of cy.nodes(':visible').filter(n=>!n.isParent()&&n.data('icon'))){const contentCenter=n.data('iconTop')+(24+6+n.data('labelHeight'))/2;if(Math.abs(contentCenter-n.data('height')/2)>1)errors.push('Icon and label are not jointly centered: '+n.id());}
+ for(const n of cy.nodes(':visible').filter(n=>n.isParent()&&n.data('groupLabel')==='top')){n.boundingBox({includeLabels:true,includeOverlays:false});const label=n._private.labelBounds.main;if(Math.abs((label.x1+label.x2)/2-n.position('x'))>2)errors.push('Top group title is not centered: '+n.id());}
  return {state:a.state,viewerErrors:a.errors,cytoscapeVersion:cytoscape.version,nodes:nodes.length,leaves:leaves.length,edges:cy.edges().length,visibleEdges:cy.edges(':visible').length,zoom:cy.zoom(),labelPixels,centerOffset,routes,nodeLabels,edgeLabels,groupLabels,errors,warnings,geometry:nodes,iconStyles};
 }'''
 

diff --git a/scripts/release.py b/scripts/release.py
@@ -38,10 +38,24 @@ REQUIRED_FILES = {
     "assets/viewer.js",
     "assets/icons/manifest.json",
     "assets/vendor/manifest.json",
+    "assets/showcases/ai-retrieval.png",
+    "assets/showcases/aws-commerce.png",
+    "assets/showcases/cicd-rollback.png",
+    "assets/showcases/creative-production.png",
+    "assets/showcases/oauth-oidc.png",
+    "assets/showcases/order-to-cash.png",
     "scripts/browser_check.py",
     "scripts/acceptance.py",
     "scripts/deliver.py",
     "scripts/diagram.py",
+    "scripts/import_icon.py",
+    "scripts/release.py",
+    "scripts/vendor_from_npm.py",
+    "references/composition.md",
+    "references/icons.md",
+    "references/model.md",
+    "references/quality-and-limits.md",
+    "references/sources.md",
 }
 PUBLIC_ROOTS = {".github", "assets", "evals", "examples", "references", "scripts", "tests"}
 PUBLIC_ROOT_FILES = {
@@ -328,6 +342,14 @@ def validate_package(root: Path = ROOT, tag: str | None = None) -> dict[str, obj
             _add(errors, "HOST_PATH", relative.as_posix(), "Creation-host or local absolute path remains.")
 
     candidate_files = {p.relative_to(root).as_posix() for p in files if not _blocked(p.relative_to(root))}
+    try:
+        readme = (root / "README.md").read_text(encoding="utf-8")
+        for source in re.findall(r"<img\b[^>]*\bsrc=[\"']([^\"']+)[\"']", readme, re.IGNORECASE):
+            relative = _safe_relative(root, source)
+            if relative is None or relative.as_posix() not in candidate_files:
+                _add(errors, "README_ASSET", source, "README image must be a packaged local file.")
+    except (OSError, UnicodeError) as exc:
+        _add(errors, "README", "README.md", str(exc))
     _validate_manifest_files(root, candidate_files, errors, icons=True)
     _validate_manifest_files(root, candidate_files, errors, icons=False)
     showcase_count = _validate_models(root, candidate_files, errors)

diff --git a/tests/test_model.py b/tests/test_model.py
@@ -80,7 +80,9 @@ class ModelTests(unittest.TestCase):
    with self.assertRaises(ValueError):diagram.icons_payload(m,p)
  def test_safe_json(self):
   value={'x':'</script><img src=x onerror=alert(1)>\u2028&__RUNTIME__'};encoded=diagram.safe_json(value);self.assertNotIn('</script>',encoded);self.assertEqual(json.loads(encoded),value)
- def test_svg_static(self):svg=diagram.sanitize_svg('<svg viewBox="0 0 24 24"><path fill="currentColor" d="M0 0h24v24z"/></svg>');self.assertIn('#334155',svg)
+ def test_svg_static(self):
+  svg=diagram.sanitize_svg('<svg width="640" height="512" viewBox="0 0 640 512"><path fill="currentColor" d="M0 0h640v512z"/></svg>')
+  self.assertIn('#334155',svg);self.assertIn('width="24"',svg);self.assertIn('height="24"',svg);self.assertIn('viewBox="0 0 640 512"',svg)
  def test_svg_active_rejected(self):
   for body in ['<script>alert(1)</script>','<image href="https://x"/>','<foreignObject/>','<path onload="x"/>','<path fill="url(#a)"/>','<use href="#a"/>']:
    with self.subTest(body=body),self.assertRaises(ValueError):diagram.sanitize_svg('<svg viewBox="0 0 24 24">'+body+'</svg>')

diff --git a/tests/test_release.py b/tests/test_release.py
@@ -27,6 +27,16 @@ class ReleaseTests(unittest.TestCase):
             self.assertFalse(report["ok"])
             self.assertTrue(any(error["code"] == "FORBIDDEN_PATH" for error in report["errors"]))
 
+    def test_release_validator_rejects_missing_readme_image(self):
+        with tempfile.TemporaryDirectory() as directory:
+            copy = Path(directory) / "package"
+            shutil.copytree(ROOT, copy, ignore=shutil.ignore_patterns("__pycache__", ".git"))
+            with (copy / "README.md").open("a", encoding="utf-8") as stream:
+                stream.write('\n<img src="assets/showcases/missing.png" alt="Missing">\n')
+            report = validate_package(copy)
+            self.assertFalse(report["ok"])
+            self.assertTrue(any(error["code"] == "README_ASSET" for error in report["errors"]))
+
     def test_archive_has_versioned_root_and_matching_checksum(self):
         with tempfile.TemporaryDirectory() as directory:
             output = Path(directory) / "dist"

diff --git a/tests/run_browser.py b/tests/run_browser.py
@@ -67,6 +67,9 @@ def run(out,mode):
    assert page.evaluate("() => __DIAGRAM__.cy.getElementById('decision').data('displayLabel')")=='Review\nsigning\ndecision'
    assert page.evaluate("() => __DIAGRAM__.cy.getElementById('inner').pstyle('text-halign').value")=='left'
    assert page.evaluate("() => __DIAGRAM__.cy.getElementById('inner').pstyle('background-width').pfValue[0]")==20
+   assert page.evaluate("() => __DIAGRAM__.cy.getElementById('source').pstyle('background-width').pfValue[0]")==24
+   assert page.evaluate("() => __DIAGRAM__.cy.getElementById('inner').parent().id()")=='outer'
+   assert page.evaluate("() => __DIAGRAM__.cy.getElementById('source').parent().id()")=='inner'
   exercise('appearance-routing',styled,appearance)
   def repeat(page,m):
    a=page.evaluate('() => __DIAGRAM__.cy.nodes().map(n=>({id:n.id(),x:n.position("x"),y:n.position("y")}))')

diff --git a/scripts/acceptance.py b/scripts/acceptance.py
@@ -7,11 +7,12 @@ import subprocess
 import sys
 
 ROOT = Path(__file__).resolve().parents[1]
-SHOWCASES = ('aws-commerce','oauth-oidc','order-to-cash','ai-retrieval','cicd-rollback')
+SHOWCASES = ('aws-commerce','oauth-oidc','order-to-cash','ai-retrieval','cicd-rollback','creative-production')
 
 def main():
  p=argparse.ArgumentParser(description=__doc__);p.add_argument('--out',required=True,type=Path);p.add_argument('--load',choices=['file','content'],default='file');a=p.parse_args()
  try:
+  subprocess.run([sys.executable,ROOT/'scripts/release.py','check',ROOT],check=True)
   subprocess.run([sys.executable,ROOT/'scripts/diagram.py','doctor'],check=True)
   for name in SHOWCASES:
    model=ROOT/f'examples/{name}.json';artifact=a.out/f'{name}.html';evidence=a.out/f'{name}-checks'

diff --git a/scripts/diagram.py b/scripts/diagram.py
@@ -210,8 +210,11 @@ def sanitize_svg(text: str) -> str:
     try: nums=[float(x) for x in vb]
     except ValueError:raise ValueError('Invalid viewBox.')
     if not all(math.isfinite(v) for v in nums) or not all(0<v<=10000 for v in nums[2:]):raise ValueError('Invalid SVG dimensions.')
+    # Every embedded icon has the same intrinsic box. The viewBox retains the
+    # source aspect ratio, so wide and tall artwork is centred without being
+    # stretched or inheriting pack-specific pixel dimensions.
     root.set('xmlns','http://www.w3.org/2000/svg')
-    root.set('width',str(nums[2]));root.set('height',str(nums[3]))
+    root.set('width','24');root.set('height','24')
     return ET.tostring(root,encoding='unicode')
 
 def local_file(root: Path, relative: str) -> Path:

diff --git a/README.md b/README.md
@@ -24,6 +24,8 @@ Each graph-only preview links to its editable JSON model:
   <tr><td align="center"><a href="examples/ai-retrieval.json"><img src="assets/showcases/ai-retrieval.png" alt="AI knowledge and retrieval diagram"></a></td></tr>
   <tr><th>CI/CD deployment and rollback</th></tr>
   <tr><td align="center"><a href="examples/cicd-rollback.json"><img src="assets/showcases/cicd-rollback.png" alt="CI/CD deployment and rollback diagram"></a></td></tr>
+  <tr><th>Nested creative-production boundaries</th></tr>
+  <tr><td align="center"><a href="examples/creative-production.json"><img src="assets/showcases/creative-production.png" alt="Creative production diagram with a production team nested inside a studio workspace"></a></td></tr>
 </table>
 
 The AWS view is illustrative and does not provision or discover infrastructure.
@@ -53,13 +55,14 @@ explicitly activates it.
 
 ## Showcase models
 
-The editable showcase models cover five different stories:
+The editable showcase models cover six different stories:
 
 - event-driven AWS commerce (illustrative architecture only)
 - OAuth/OIDC authentication and token lifecycle
 - order-to-cash business process
 - AI knowledge and retrieval pipeline
 - CI/CD deployment with incident rollback
+- creative production with an explicit group nested inside another group
 
 Open the [example models](examples/) to inspect the authored topology, evidence
 state, relationships, and named views. Every gallery image above is a
@@ -193,8 +196,9 @@ or monitoring system, authenticated dashboard, or specialist BPMN/UML/sequence
 grammar. It does not provide freehand positioning, authored/manual exact ports, native
 SVG export, built-in collapse/expand, or live impact analysis. ELK supplies
 layered node placement through `cytoscape-elk`; this viewer renders edges with
-Cytoscape, derives distinct surface endpoints and label lanes after layout, and
-does not apply ELK edge sections or ports. Dense models may need
+Cytoscape, derives distinct shape-aware surface ports, selects non-overlapping
+orthogonal channels, and places labels after layout. It does not apply ELK edge
+sections or ports. Dense models may need
 focused views, a text representation, or separate artifacts to remain readable.
 
 ## Contributing

diff --git a/references/composition.md b/references/composition.md
@@ -53,7 +53,9 @@ This is based on the v2.3.0 implementation, not the combined feature lists of bo
 | Collapse/expand, minimap | Extensions or custom projection | Not included |
 | User editing and persistence | Custom application layer | Not included |
 
-`makeEdge()` copies IDs and endpoints, not labels or port attachments. `applyLayout()` applies leaf positions and ancestor offsets, not returned edge sections. After layout, the viewer assigns geometry-derived Cytoscape surface endpoints, separates parallel/reverse lanes, and chooses label offsets that avoid the tested node and label bounds. Do not advertise `elk.edgeRouting = ORTHOGONAL` as a way to reroute this viewer's lines. They remain Cytoscape bezier edges. Taxi/segment styles would still be Cytoscape routes, not ELK obstacle-aware routes.
+`makeEdge()` copies IDs and endpoints, not labels or port attachments. `applyLayout()` applies leaf positions and ancestor offsets, not returned edge sections. After layout, the viewer derives shape-aware surface ports, gives every edge on a node side a distinct port and fan-out distance, and selects rectilinear Cytoscape segment routes that avoid leaf nodes and already occupied collinear channels. A bounded two-channel fallback handles routes that cannot be expressed with one shared axis. Label offsets avoid tested node, group-title, and label bounds; opaque label backgrounds interrupt the line beneath. Self-loops remain bezier edges.
+
+Do not advertise `elk.edgeRouting = ORTHOGONAL` as the source of these displayed routes. They are deterministic viewer-owned Cytoscape segments, not returned ELK sections. Exact authored ports or a formal guarantee of globally optimal edge routing would still require a direct-ELK geometry adapter or a renderer built for those constraints.
 
 If exact routes are a hard requirement, either build and test a direct-ELK geometry adapter that maps node centers, nested offsets, ports and every edge section into a compatible renderer, or choose a renderer built for that geometry. Do not sneak this large change into a styling patch. Keep source IDs/topology stable.
 

diff --git a/SKILL.md b/SKILL.md
@@ -160,11 +160,13 @@ positions/rendering**. The adapter is essential. Load libraries before the
 viewer. Use `name: 'elk'` and `elk.algorithm: 'layered'`.
 
 The adapter applies node positions, not ELK edge sections, ports, or label
-placement. After layout, this viewer derives distinct Cytoscape surface
-endpoints and collision-aware label offsets as presentation state; it still
-uses Cytoscape's own bezier edges.
-`elk.edgeRouting: 'ORTHOGONAL'` would not make those edges ELK-routed. Core
-Cytoscape is Canvas, not a native SVG export engine.
+placement. After layout, this viewer derives distinct shape-aware surface
+ports, selects non-overlapping orthogonal channels around leaf nodes, renders
+them with Cytoscape segments, and places opaque-backed labels away from tested
+node, group-title, and label bounds. Self-loops remain Cytoscape bezier edges.
+`elk.edgeRouting: 'ORTHOGONAL'` does not route these displayed lines because
+the adapter discards returned edge sections. Core Cytoscape is Canvas, not a
+native SVG export engine.
 
 The bundled adapter creates ELK without a real external Web Worker. The
 viewer's 15-second timeout is a failure signal, not hard cancellation or
